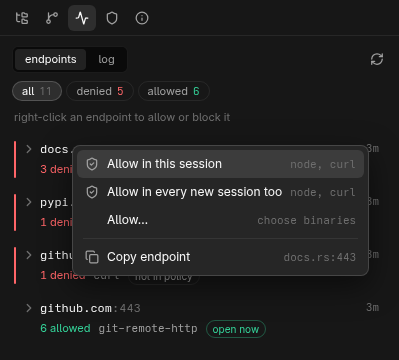
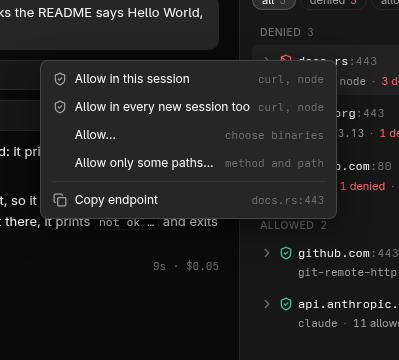
The README shows the chat
The workspace screenshot was the agent's terminal, which is not what a
new session opens on any more. All four are retaken so the window
matches: real throwaway sessions on octocat/Hello-World and
octocat/Spoon-Knife on a real gateway, deleted after, one idle, one
waiting on an edit it asked for, and one working.

`workspace.png` is that waiting conversation with its permission card.
`events.png` and `events-menu.png` are real traffic from the same kind of
session: git fetching from github.com and allowed, curl, node and Python
refused at docs.rs, PyPI and github.com over plain HTTP. `policy.png` is
the same session's policy. A bullet under "What it does" says what the
chat is.

Rendered from the server's own replies, captured with hura-client, in
Chromium at the window's size, with the one unrelated session on the
server left out of the tree.

diff --git a/README.md b/README.md
@@ -20,11 +20,11 @@ git clone https://github.com/octocat/Hello-World.git   -> SUCCEEDS
 curl https://github.com                                 -> DENIED
 ```
 
-The window is a workspace: projects containing worktrees, the agent's terminal
-and extra shells beside it, the working copy in a file tree, diffs in an editor
-with comments that go back to the agent, and git on the right.
+The window is a workspace: projects containing worktrees, a conversation with
+each agent and shells beside it, the working copy in a file tree, diffs in an
+editor with comments that go back to the agent, and git on the right.
 
-![The hura workspace: the Hello-World and Spoon-Knife projects and their worktrees on the left, the agent's terminal in the middle showing git status in the sandbox, and the git pane on the right listing the two changed files](docs/images/workspace.png)
+![The hura workspace: the Hello-World and Spoon-Knife projects and their worktrees on the left, one idle, one waiting on a permission prompt and one working; the readme-fix conversation in the middle, where the agent asks to edit README and shows the diff with allow, allow and don't ask again, and decline; and the git pane on the right](docs/images/workspace.png)
 
 **The isolation is not a claim, it is a pane.** Every allow and deny the gateway
 made, folded by where it was going: how often each endpoint was refused or let
@@ -33,13 +33,13 @@ been fetching from github.com all along, while `curl` reaching for the same host
 over plain HTTP, `node` and `curl` going for docs.rs, and Python going for PyPI
 were all refused:
 
-![The events pane for a session, grouped by endpoint: docs.rs:443 denied three times to node and curl, pypi.org:443 denied to python3.13, github.com:80 denied to curl, each marked not in policy, and github.com:443 allowed six times to git-remote-http and marked open now](docs/images/events.png)
+![The events pane for a session, grouped by endpoint: docs.rs:443 denied three times to curl and node, pypi.org:443 denied to python3.13, github.com:80 denied to curl, each marked not in policy with an allow button, and github.com:443 allowed ten times to git-remote-http and api.anthropic.com:443 to claude, both in policy](docs/images/events.png)
 
 A denial is something to act on, not only to read. Right-click it to open the
 endpoint to the binaries that were refused -- for this session, or for every
 new session too -- or right-click an open one to block it:
 
-![The context menu on the denied docs.rs:443 row: allow in this session, allow in every new session too, allow… to choose binaries, and copy endpoint](docs/images/events-menu.png)
+![The context menu on the denied docs.rs:443 row: allow in this session, allow in every new session too, allow… to choose binaries, allow only some paths…, and copy endpoint](docs/images/events-menu.png)
 
 The rules behind those decisions are what the policy pane shows -- each one an
 endpoint, the binaries it is granted to, and how much of it they get:
@@ -57,6 +57,12 @@ endpoint, the binaries it is granted to, and how much of it they get:
   denied endpoint is opened -- for one binary, for this session or every new one
   -- from a right-click on the denial, and an open one is blocked the same way.
   This is the part an ADE built on git worktrees has no equivalent for.
+- **The agent as a conversation.** A new session's agent is a chat the window
+  draws: replies as they are written, every tool call as a card with its output
+  or its diff, and permission prompts and questions as buttons. It runs through
+  the Agent SDK *inside* the sandbox, on the same `claude` under the same policy,
+  and the terminal is one setting away. More conversations, or shells, open
+  beside it. See [docs/desktop.md](docs/desktop.md#talking-to-the-agent).
 - **Several agents at once, without babysitting.** A session blocked on a
   permission prompt says so in the list -- and the window sends an OS
   notification the moment it starts waiting, so watching costs nothing at all.
